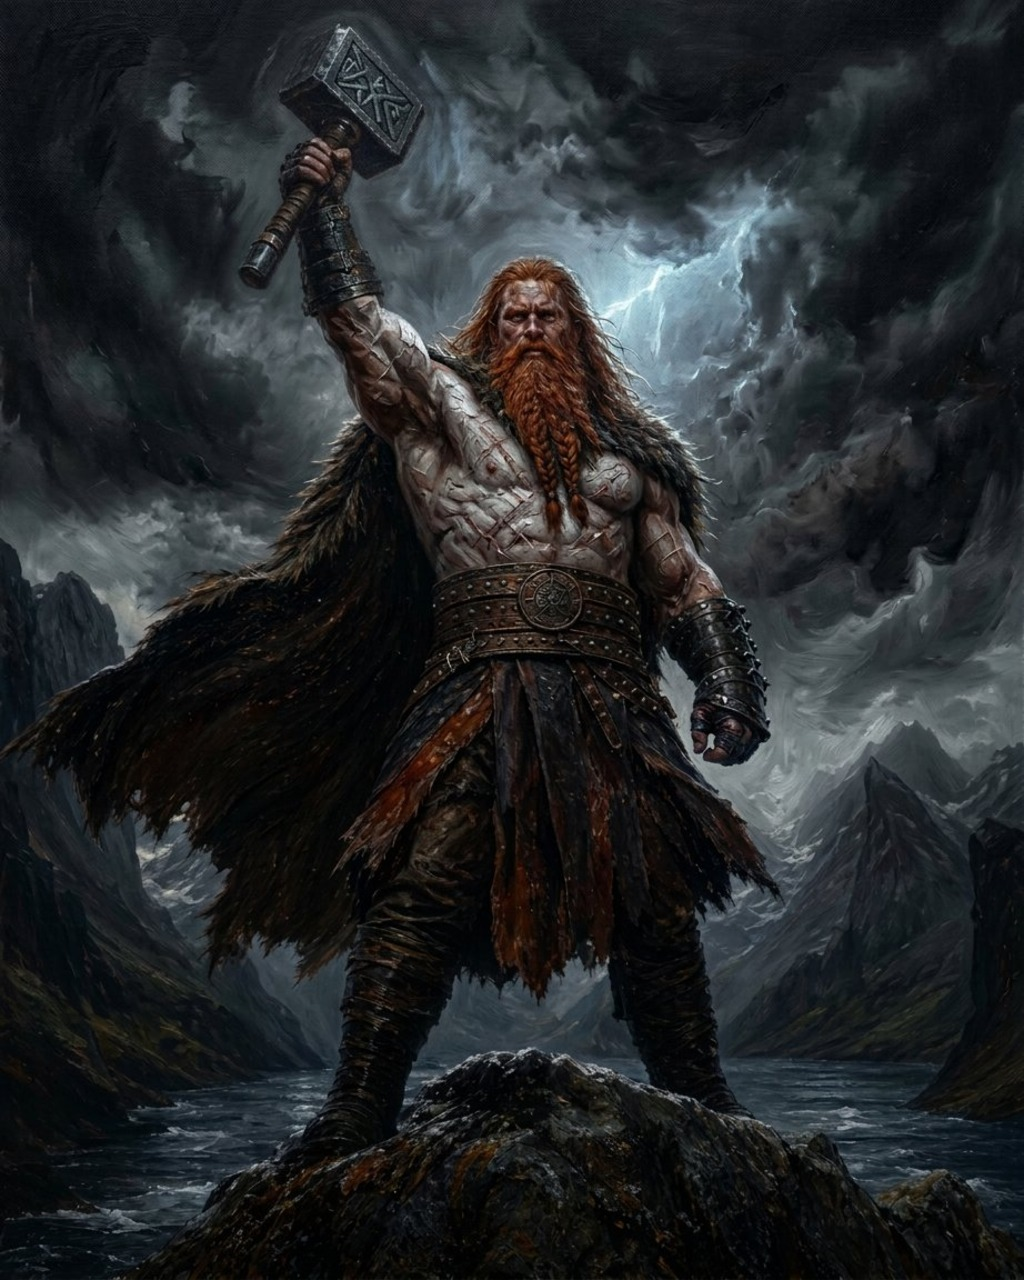
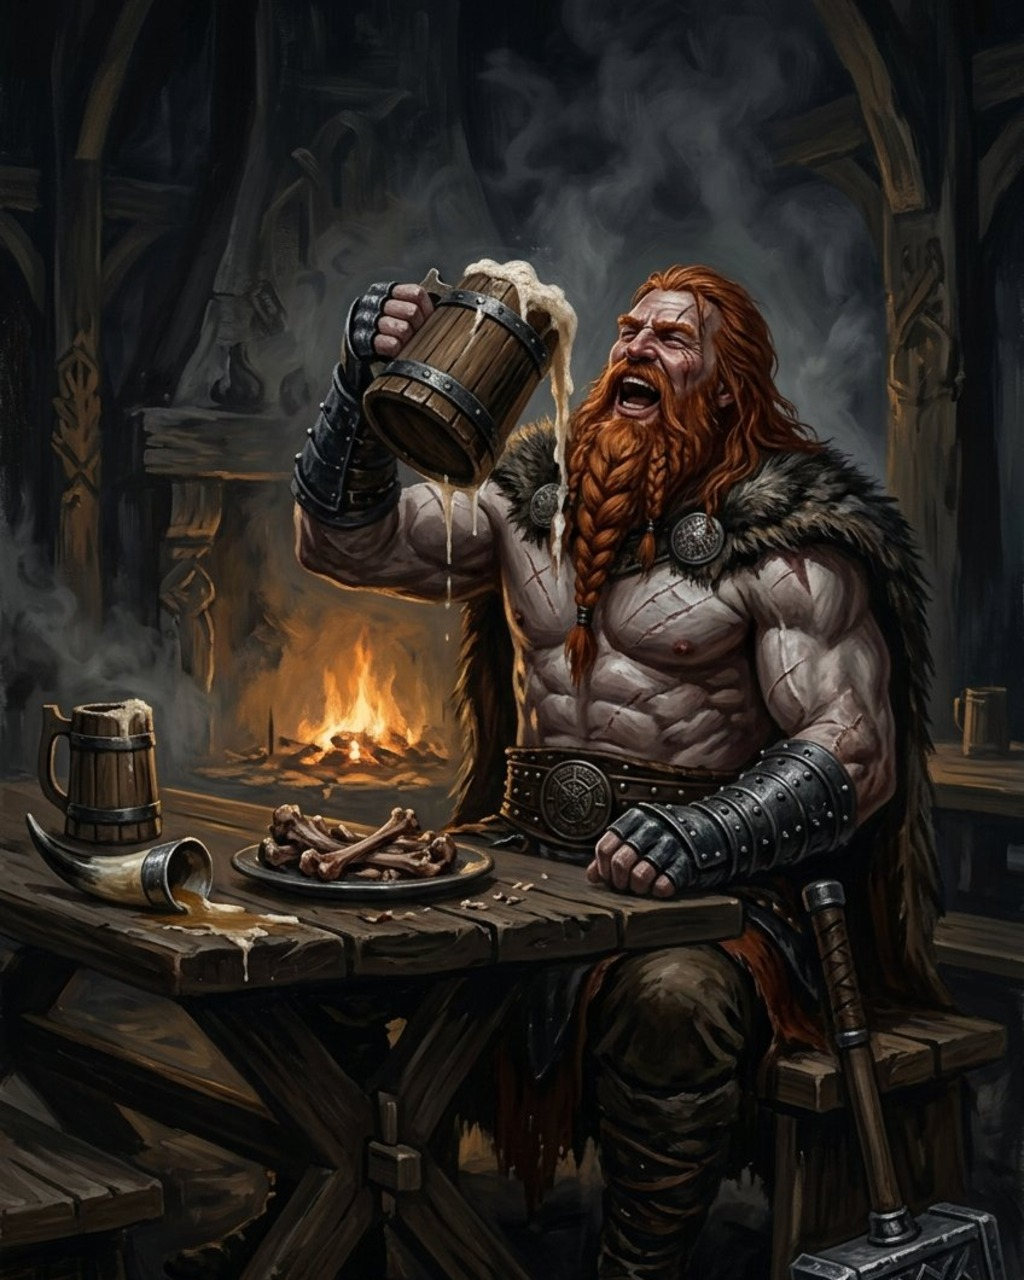
Neige : le Maître du marteau attablé à la taverne
Sa carte de base change de scène : le colosse roux est assis à une longue table
de taverne, renversé en arrière, riant à pleine gueule, une chope de bois
cerclée de fer grosse comme sa tête — la mousse déborde sur son poignet et dans
sa barbe. Une seconde chope et une corne renversée sur la table, un plat d'os,
le feu pour seule lumière, le marteau appuyé contre le banc.

Sa face de Furie garde sa peinture de bataille — debout sur son rocher,
marteau levé, foudre froide sur l'avant-bras : le moment où le tavernier cesse
de rire.

Révision de la carte de base : neige-maitre-tavern-v1. L'ancienne peinture de
bataille est archivée en avant-tavern-maitre-du-marteau.jpg.

Vérifié : check:rpg 1036 réussis / 12 échoués (les douze rouges connus), tests
du duel au vert, build OK.

diff --git a/src/games/rpgCardArt.js b/src/games/rpgCardArt.js
@@ -213,7 +213,9 @@ const CARD_ART_CACHE_VERSIONS = {
   // seule la face de Furie a changé.
   'berserk-des-trois-hivers': 'neige-souls-cendres-v1',
   'berserk-des-trois-hivers-furie': 'neige-furie-souls-v1',
-  'maitre-du-marteau': 'neige-souls-cendres-v1',
+  // Le Maître boit et rit dans sa taverne — sa face de Furie garde, elle, sa
+  // peinture de bataille, le marteau levé sous la foudre froide.
+  'maitre-du-marteau': 'neige-maitre-tavern-v1',
   'maitre-du-marteau-furie': 'neige-furie-souls-v1',
   'loup-des-neiges-furie': 'neige-furie-loup-v1',
   'valkyrie-au-corbeau-furie': 'neige-furie-valkyrie-v1',

diff --git a/src/games/RPG-CARD-ART.md b/src/games/RPG-CARD-ART.md
@@ -659,6 +659,23 @@ Règles de tir propres à ces cartes (vérifiées visuellement une à une) :
 - **Serpent des citernes** (`serpent-des-citernes.jpg`) — le jeton évoqué
   par le Bâton : serpent verdâtre dressé dans la citerne moussue.
 
+### Le Maître du marteau à la taverne (octobre 2026)
+
+Sa peinture de bataille est remplacée par une **scène de taverne** : le colosse
+roux attablé dans une halle de nuit, renversé en arrière, riant à pleine
+gueule, une **chope de bois cerclée de fer, grosse comme sa tête**, la mousse
+qui déborde sur son poignet et dans sa barbe. Une deuxième chope et une corne
+renversée sur la table, un plat d'os, le feu pour seule lumière, et son marteau
+appuyé contre le banc, hors du chemin.
+
+Sa **face de Furie garde, elle, sa peinture de bataille** — le colosse debout
+sur son rocher, marteau levé, crâne fendu et foudre froide courant sur
+l'avant-bras (révision `neige-furie-souls-v1`) : c'est le moment où le tavernier
+cesse de rire, et la table n'a plus rien à y faire.
+
+Révision de la carte de base : `neige-maitre-tavern-v1`. L'ancienne peinture de
+bataille est archivée en `avant-tavern-maitre-du-marteau.jpg`.
+
 ## La passe des Furies (octobre 2026)
 
 Les faces de Furie — l'état déclenché d'une créature blessée — étaient restées
